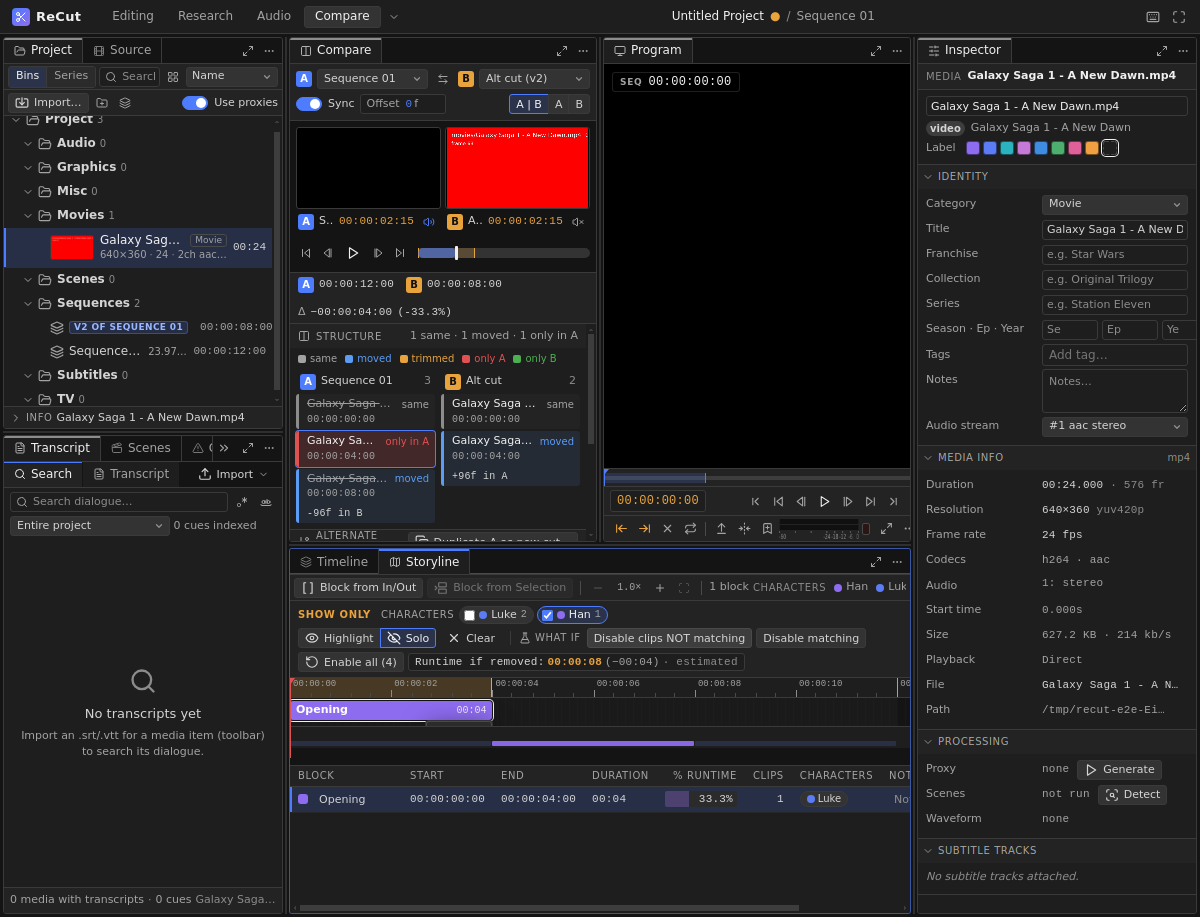
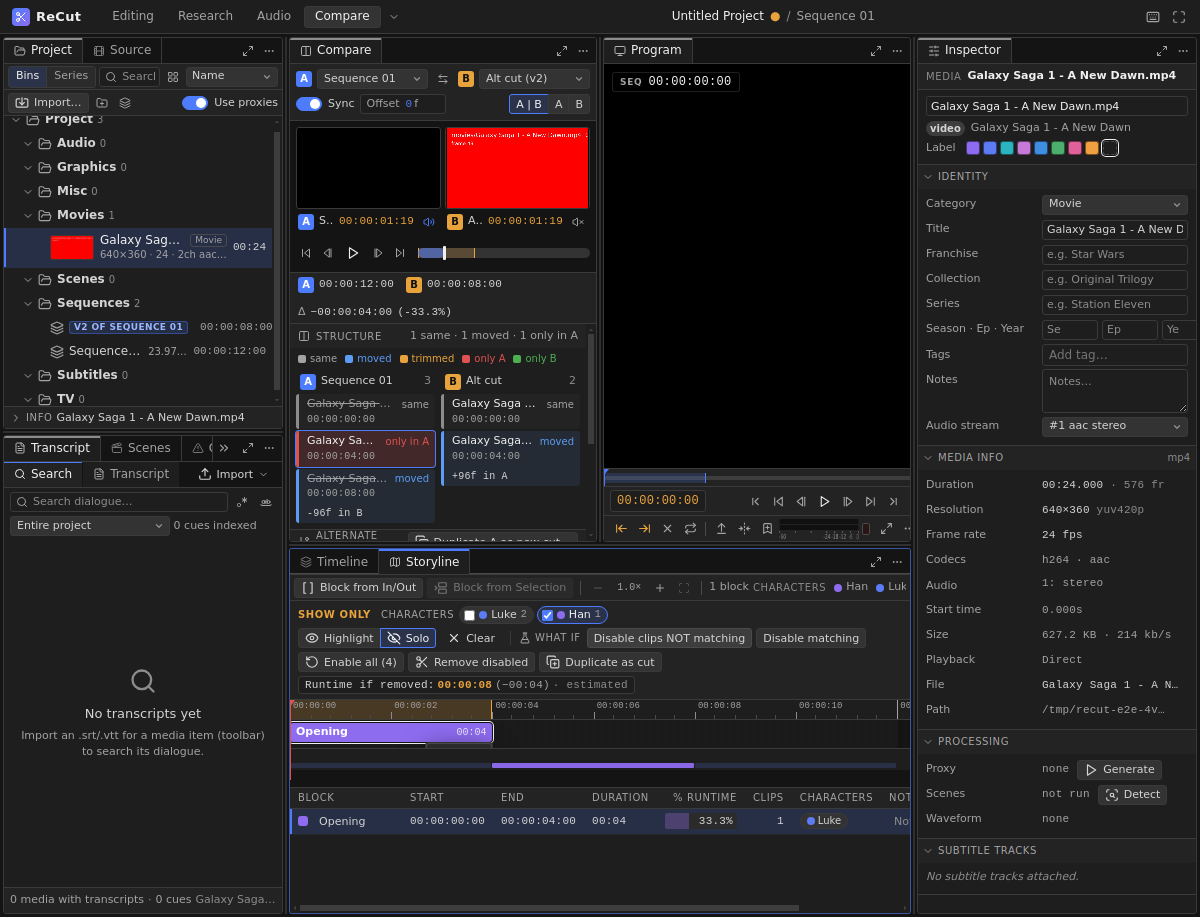
WIP: final polish pass in progress
Claude-Session: https://claude.ai/code/session_019yUCkqtVLnXpGqpkZre9k3

Changed region(s): [[0.2158, 0.7023, 0.7708, 0.916]]

diff --git a/docs/LIMITATIONS.md b/docs/LIMITATIONS.md
@@ -1,6 +1,6 @@
 # Known limitations
 
-This page describes ReCut 0.1.0 at commit `7156564`. Every item was checked against the code. Items marked **bug** are
+This page describes ReCut 0.1.0 after the final polish pass (October 2026). Every item was checked against the code. Items marked **bug** are
 defects. The others are features ReCut does not have yet (see [ROADMAP](ROADMAP.md)).
 
 ## Editing and effects
@@ -11,12 +11,12 @@ defects. The others are features ReCut does not have yet (see [ROADMAP](ROADMAP.
 - **No titles or generators.** Text, shapes and solids are not available. Import a still image instead.
 - **Three transitions:** Cross Dissolve, Dip to Black, Audio Crossfade.
 - **No nested sequences or compound clips.**
-- **Speed:** forward only (no reverse). The Speed / Duration dialog (Ctrl+R) accepts 1 %–10 000 %. The Inspector's
-  Speed field is limited to 10 %–800 %.
+- **Speed:** forward only (no reverse). The Speed / Duration dialog (Ctrl+R) and the Inspector's Speed field both
+  accept 1 %–10 000 %.
 - **Sync:** linked clips that drift show an out-of-sync badge with the frame offset. There is no "Move / Slip into
   Sync" command, so you fix the offset by hand.
-- **What-if experiments** disable clips and show an *estimated* runtime. No single action removes the disabled
-  clips and closes the gaps. Use Ripple Delete, or duplicate the cut first.
+- **What-if experiments** disable clips and show an *estimated* runtime (V1 only, gaps not closed). **Remove
+  disabled** / **Duplicate as cut** make it real, but skip clips on locked tracks.
 - **Transcript search** flags lines that are already in the cut ("on timeline") only when the scope is a
   **Sequence**. In project, series or season scope it does not.
 - **Undo** keeps the last 200 steps per session. Playhead, zoom and In/Out are not undoable.
@@ -32,8 +32,9 @@ defects. The others are features ReCut does not have yet (see [ROADMAP](ROADMAP.
 - **Preview of surround:** proxies are stereo, and the browser downmixes directly-played 5.1 to your output device.
 - **Multi-stream originals:** export renders each clip's selected audio stream. The preview does not: a
   directly-playable file plays Chromium's default (first) audio track, and a proxied file plays the single stream
-  baked into its proxy (the media's selected stream at proxy time). Changing a clip's stream does not change what
-  you hear in the preview.
+  baked into its proxy. Changing the **media's** Audio stream in the Inspector marks a proxy built for another stream
+  stale and, with proxies on, rebuilds it for files that need one. Changing a single **clip's** stream does not change
+  what you hear in the preview.
 
 ## Preview (Chromium) and proxies
 
@@ -43,12 +44,9 @@ defects. The others are features ReCut does not have yet (see [ROADMAP](ROADMAP.
   [FORMATS](FORMATS.md).
 - **Proxies off does not mean originals only.** For an original Chromium cannot decode, a ready proxy is still used
   (Program shows the **Proxy** chip). This is deliberate. "Needs proxy" appears only when no proxy exists.
-- **Bug: still images are not drawn in the Program monitor.** Images are probed as not browser-playable
-  (`playabilityReason: "still image"`), so Program shows black and a **Needs proxy** chip over them. A proxy cannot
-  fix this: Generate Proxy is disabled for images in the Project menu, and the proxy job rejects a source with no
-  duration ("source has neither video nor audio"). The Source monitor shows images, and export renders them
-  correctly. (Checked by reading the code and by running `resolvePlaybackPath` on a probed PNG. Not reproduced in
-  the UI.)
+- **Still images** in PNG, JPEG, WebP, GIF and BMP are drawn directly (no proxy). Other image formats (TIFF, HEIC,
+  AVIF, JPEG XL, ...) export correctly, but the Program monitor lists them as missing ("convert to PNG or JPEG"). An
+  animated GIF shows its first frame in the preview.
 - **VFR sources** are flagged in the Media Inspector ("timecodes may drift; consider a proxy"). In the media attack
   suite, exports of VFR clips match the editor's frame model, but Chromium's own seeking on VFR files has not been
   measured. For frame-critical work on VFR material, use a proxy or a constant-frame-rate transcode.
@@ -74,13 +72,10 @@ defects. The others are features ReCut does not have yet (see [ROADMAP](ROADMAP.
 
 - **Only the Linux unpacked build** (`npm run package` → `release/linux-unpacked`) has been verified. The AppImage,
   dmg and nsis targets are configured but untested. Nothing is signed or notarised.
-- **FFmpeg is not bundled.** Install it yourself. ReCut does not warn at startup when it is missing. Imports and
-  exports fail, and Preferences / About show "not found".
-- **Bug (minor):** the exporter resolves FFmpeg on its own path. It honours `RECUT_FFMPEG` and `PATH` (then falls back
-  to `/usr/bin/ffmpeg`), but ignores `RECUT_FFMPEG_PATH` and the `<resources>/ffmpeg` folder that the media services
-  check.
-- **Preferences** are reachable with Ctrl+, (or Cmd+, / the app menu on macOS). On Linux and Windows there is no menu
-  item for them.
+- **FFmpeg is not bundled by default.** Install it yourself, or drop static binaries into `resources/ffmpeg/` before
+  `npm run package` / `npm run dist` (see [INSTALL](INSTALL.md#bundling-ffmpeg)). Bundling has only been exercised
+  with the Linux unpacked build. When FFmpeg is missing, ReCut shows a banner and import / proxies / export stop with
+  an explanation. ReCut finds FFmpeg once per session, so restart it after installing.
 - The cache location can only be changed with `RECUT_CACHE_DIR` or `cacheDir` in `prefs.json`. There is no UI for it.
 - One window and one open project at a time. Projects store **absolute** media paths, so moving media means using
   Relink.

diff --git a/README.md b/README.md
@@ -35,6 +35,8 @@ Electron + React + TypeScript. FFmpeg does all media work. Version 0.1.0.
   and group them, and drag them to the timeline.
 - **Story tagging.** Tag clips with characters, plotlines, locations and tags. The Storyline panel can **Highlight** or
   **Solo** matching clips, and its **What if** buttons disable matching / non-matching clips and estimate the runtime.
+  **Remove disabled** turns the experiment into the real cut (ripple, one undo step), and **Duplicate as cut** does the
+  same in a new version of the sequence.
 - **Storyline blocks.** Label acts and arcs as coloured blocks above the cut.
 - **Alternate cuts and snapshots.** Duplicate a sequence as a versioned alternate cut, or take restorable snapshots.
 - **Compare cuts.** Play two sequences side by side on one clock and read a structural diff
@@ -48,7 +50,8 @@ Electron + React + TypeScript. FFmpeg does all media work. Version 0.1.0.
 
 ### Media
 - **Proxies.** Media that Chromium cannot decode (HEVC, AC-3, DTS, MPEG-TS, ...) gets a 540p H.264 proxy
-  automatically. Proxies are used only for preview: export always reads the originals.
+  automatically. Proxies are used only for preview: export always reads the originals. Still images (PNG, JPEG, WebP,
+  GIF, BMP) are drawn directly and never need one.
 - **Relink.** Offline detection, a folder search that matches by name + size, and per-file Locate.
 - **5.1.** 5.1 sources can be exported as 5.1 AC-3, or as a stereo downmix.
 - **Export presets.** 1080p High Quality, 1080p Smaller File, 4K High Quality, 720p Preview, 1080p 5.1 Surround,
@@ -67,10 +70,13 @@ Electron + React + TypeScript. FFmpeg does all media work. Version 0.1.0.
 | ![Storyline](docs/screenshots/storyline.png) Storyline blocks and tag filters | ![Compare](docs/screenshots/compare.png) Compare cuts with structural diff |
 | ![Continuity](docs/screenshots/continuity.png) Continuity notes | ![Jobs](docs/screenshots/jobs.png) Jobs and proxies |
 | ![Export](docs/screenshots/export.png) Export dialog | ![Program maximized](docs/screenshots/program-maximized.png) Program monitor maximized |
+| ![Still image](docs/screenshots/program-still.png) A PNG on V2 over video in the Program monitor | |
 
 ## Quick start
 
-Requires Node.js 20+ (22 recommended) and FFmpeg 6+ (`ffmpeg` and `ffprobe` on `PATH`). See [docs/INSTALL.md](docs/INSTALL.md).
+Requires Node.js 20+ (22 recommended) and FFmpeg 6+ (`ffmpeg` and `ffprobe` on `PATH`, or set `RECUT_FFMPEG` /
+`RECUT_FFPROBE`). ReCut shows a banner at startup when it cannot find them. See [docs/INSTALL.md](docs/INSTALL.md),
+which also explains how to bundle FFmpeg into a package.
 
 ```bash
 git clone <this repo> ReCut && cd ReCut
